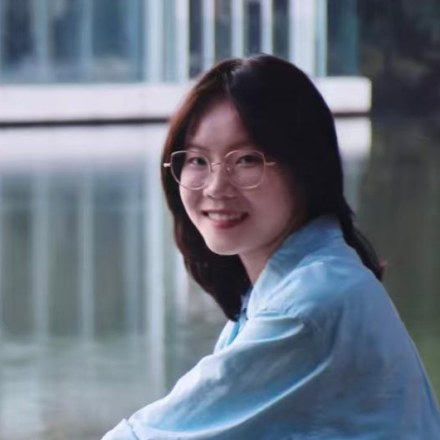
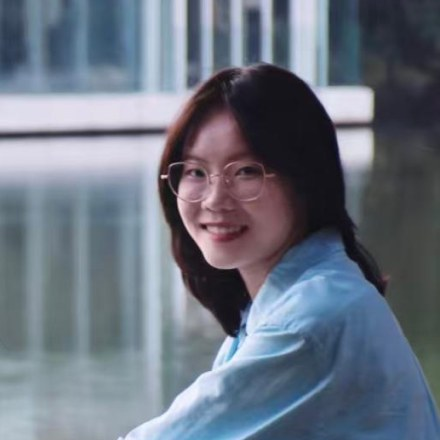
Team: correct names to 陈启凯 (Qikai Chen) & 杜斓琪; re-crop all photos face-centered (fixes 郭潇 off-center)

diff --git a/team.html b/team.html
@@ -17,7 +17,7 @@
 <link rel="preconnect" href="https://fonts.googleapis.com">
 <link href="https://fonts.googleapis.com/css2?family=Inter:wght@400;500;600;700;800&display=swap" rel="stylesheet">
 <script>try{document.documentElement.setAttribute("data-theme",localStorage.getItem("wl-theme")||"dark")}catch(e){}</script>
-<link rel="stylesheet" href="assets/css/site.css?v=20260621-polish35">
+<link rel="stylesheet" href="assets/css/site.css?v=20260621-polish36">
 </head>
 <body>
 
@@ -187,22 +187,22 @@
     <h2 class="section-title" style="margin-top:3rem" data-zh="主治医师">Attending Physicians</h2>
     <div class="team-grid">
       <div class="team-member">
-        <div class="team-member__avatar"><img src="images/team/liuyaoming.jpg?v=2" alt=""></div>
+        <div class="team-member__avatar"><img src="images/team/liuyaoming.jpg?v=3" alt=""></div>
         <div class="team-member__name" data-zh="刘耀明">Yaoming Liu</div>
         <div class="team-member__role" data-zh="主治医师">Attending Physician</div>
       </div>
       <div class="team-member">
-        <div class="team-member__avatar"><img src="images/team/lijiayong.jpg?v=2" alt=""></div>
+        <div class="team-member__avatar"><img src="images/team/lijiayong.jpg?v=3" alt=""></div>
         <div class="team-member__name" data-zh="李嘉永">Jiayong Li</div>
         <div class="team-member__role" data-zh="主治医师">Attending Physician</div>
       </div>
       <div class="team-member">
-        <div class="team-member__avatar"><img src="images/team/suyongyue.jpg?v=2" alt="Yongyue Su"></div>
+        <div class="team-member__avatar"><img src="images/team/suyongyue.jpg?v=3" alt="Yongyue Su"></div>
         <div class="team-member__name" data-zh="苏永悦">Yongyue Su</div>
         <div class="team-member__role" data-zh="主治医师">Attending Physician</div>
       </div>
       <div class="team-member">
-        <div class="team-member__avatar"><img src="images/team/liyuting.jpg?v=2" alt="Yuting Li"></div>
+        <div class="team-member__avatar"><img src="images/team/liyuting.jpg?v=3" alt="Yuting Li"></div>
         <div class="team-member__name" data-zh="黎宇婷">Yuting Li</div>
         <div class="team-member__role" data-zh="主治医师">Attending Physician</div>
       </div>
@@ -216,17 +216,17 @@
         <div class="team-member__role" data-zh="博士后研究员">Postdoctoral Researcher</div>
       </div>
       <div class="team-member">
-        <div class="team-member__avatar"><img src="images/team/xuanmeng.jpg?v=2" alt=""></div>
+        <div class="team-member__avatar"><img src="images/team/xuanmeng.jpg?v=3" alt=""></div>
         <div class="team-member__name" data-zh="玄猛">Meng Xuan</div>
         <div class="team-member__role" data-zh="博士后研究员">Postdoctoral Researcher</div>
       </div>
       <div class="team-member">
-        <div class="team-member__avatar"><img src="images/team/wangpeiyuan.jpg?v=2" alt=""></div>
+        <div class="team-member__avatar"><img src="images/team/wangpeiyuan.jpg?v=3" alt=""></div>
         <div class="team-member__name" data-zh="王培源">Peiyuan Wang</div>
         <div class="team-member__role" data-zh="博士后研究员">Postdoctoral Researcher</div>
       </div>
       <div class="team-member">
-        <div class="team-member__avatar"><img src="images/team/guoxiao.jpg?v=2" alt=""></div>
+        <div class="team-member__avatar"><img src="images/team/guoxiao.jpg?v=3" alt=""></div>
         <div class="team-member__name" data-zh="郭潇">Xiao Guo</div>
         <div class="team-member__role" data-zh="博士后研究员">Postdoctoral Researcher</div>
       </div>
@@ -245,22 +245,22 @@
         <div class="team-member__role" data-zh="博士研究生">PhD Student</div>
       </div>
       <div class="team-member">
-        <div class="team-member__avatar"><img src="images/team/cuijinli.jpg?v=2" alt=""></div>
+        <div class="team-member__avatar"><img src="images/team/cuijinli.jpg?v=3" alt=""></div>
         <div class="team-member__name" data-zh="崔金利">Jinli Cui</div>
         <div class="team-member__role" data-zh="博士研究生">PhD Student</div>
       </div>
       <div class="team-member">
-        <div class="team-member__avatar"><img src="images/team/liyunqian.jpg?v=2" alt=""></div>
+        <div class="team-member__avatar"><img src="images/team/liyunqian.jpg?v=3" alt=""></div>
         <div class="team-member__name" data-zh="李芸倩">Yunqian Li</div>
         <div class="team-member__role" data-zh="博士研究生">PhD Student</div>
       </div>
       <div class="team-member">
-        <div class="team-member__avatar"><img src="images/team/liuriqian.jpg?v=2" alt=""></div>
+        <div class="team-member__avatar"><img src="images/team/liuriqian.jpg?v=3" alt=""></div>
         <div class="team-member__name" data-zh="刘日乾">Riqian Liu</div>
         <div class="team-member__role" data-zh="博士研究生">PhD Student</div>
       </div>
       <div class="team-member">
-        <div class="team-member__avatar"><img src="images/team/jingtianzhen.jpg?v=2" alt=""></div>
+        <div class="team-member__avatar"><img src="images/team/jingtianzhen.jpg?v=3" alt=""></div>
         <div class="team-member__name" data-zh="敬天真">Tianzhen Jing</div>
         <div class="team-member__role" data-zh="博士研究生">PhD Student</div>
       </div>
@@ -269,18 +269,18 @@
     <h2 class="section-title" style="margin-top:2.5rem" data-zh="硕士研究生">Master's Students</h2>
     <div class="team-grid">
       <div class="team-member">
-        <div class="team-member__avatar"><img src="images/team/zhuziyu.jpg?v=2" alt=""></div>
+        <div class="team-member__avatar"><img src="images/team/zhuziyu.jpg?v=3" alt=""></div>
         <div class="team-member__name" data-zh="朱梓瑜">Ziyu Zhu</div>
         <div class="team-member__role" data-zh="硕士研究生">Master's Student</div>
       </div>
       <div class="team-member">
-        <div class="team-member__avatar"><img src="images/team/liuyunyi.jpg?v=2" alt=""></div>
+        <div class="team-member__avatar"><img src="images/team/liuyunyi.jpg?v=3" alt=""></div>
         <div class="team-member__name" data-zh="刘昀祎">Yunyi Liu</div>
         <div class="team-member__role" data-zh="硕士研究生">Master's Student</div>
       </div>
       <div class="team-member">
-        <div class="team-member__avatar"><img src="images/team/dulanqi.jpg?v=2" alt=""></div>
-        <div class="team-member__name" data-zh="杜澜琪">Lanqi Du</div>
+        <div class="team-member__avatar"><img src="images/team/dulanqi.jpg?v=3" alt=""></div>
+        <div class="team-member__name" data-zh="杜斓琪">Lanqi Du</div>
         <div class="team-member__role" data-zh="硕士研究生">Master's Student</div>
       </div>
       <div class="team-member">
@@ -289,38 +289,38 @@
         <div class="team-member__role" data-zh="硕士研究生">Master's Student</div>
       </div>
       <div class="team-member">
-        <div class="team-member__avatar"><img src="images/team/heyaoyang.jpg?v=2" alt=""></div>
+        <div class="team-member__avatar"><img src="images/team/heyaoyang.jpg?v=3" alt=""></div>
         <div class="team-member__name" data-zh="何耀扬">Yaoyang He</div>
         <div class="team-member__role" data-zh="硕士研究生">Master's Student</div>
       </div>
       <div class="team-member">
-        <div class="team-member__avatar"><img src="images/team/linxingtong.jpg?v=2" alt=""></div>
+        <div class="team-member__avatar"><img src="images/team/linxingtong.jpg?v=3" alt=""></div>
         <div class="team-member__name" data-zh="林星彤">Xingtong Lin</div>
         <div class="team-member__role" data-zh="硕士研究生">Master's Student</div>
       </div>
       <div class="team-member">
-        <div class="team-member__avatar"><img src="images/team/zhanghaotian.jpg?v=2" alt=""></div>
+        <div class="team-member__avatar"><img src="images/team/zhanghaotian.jpg?v=3" alt=""></div>
         <div class="team-member__name" data-zh="张浩天">Haotian Zhang</div>
         <div class="team-member__role" data-zh="硕士研究生">Master's Student</div>
       </div>
       <div class="team-member">
-        <div class="team-member__avatar"><img src="images/team/tanjunwei.jpg?v=2" alt=""></div>
+        <div class="team-member__avatar"><img src="images/team/tanjunwei.jpg?v=3" alt=""></div>
         <div class="team-member__name" data-zh="谭俊炜">Junwei Tan</div>
         <div class="team-member__role" data-zh="硕士研究生">Master's Student</div>
       </div>
       <div class="team-member">
-        <div class="team-member__avatar"><img src="images/team/zengsixi.jpg?v=2" alt=""></div>
+        <div class="team-member__avatar"><img src="images/team/zengsixi.jpg?v=3" alt=""></div>
         <div class="team-member__name" data-zh="曾思熹">Sixi Zeng</div>
         <div class="team-member__role" data-zh="硕士研究生">Master's Student</div>
       </div>
       <div class="team-member">
-        <div class="team-member__avatar"><img src="images/team/dengshirui.jpg?v=2" alt=""></div>
+        <div class="team-member__avatar"><img src="images/team/dengshirui.jpg?v=3" alt=""></div>
         <div class="team-member__name" data-zh="邓诗睿">Shirui Deng</div>
         <div class="team-member__role" data-zh="硕士研究生">Master's Student</div>
       </div>
       <div class="team-member">
-        <div class="team-member__avatar"><img src="images/team/chenyukai.jpg?v=2" alt="Yukai Chen"></div>
-        <div class="team-member__name" data-zh="陈宇凯">Yukai Chen</div>
+        <div class="team-member__avatar"><img src="images/team/chenqikai.jpg?v=3" alt="Qikai Chen"></div>
+        <div class="team-member__name" data-zh="陈启凯">Qikai Chen</div>
         <div class="team-member__role" data-zh="硕士研究生">Master's Student</div>
       </div>
     </div>
@@ -476,6 +476,6 @@
   </div>
 </footer>
 
-<script src="assets/js/site.js?v=20260621-polish35"></script>
+<script src="assets/js/site.js?v=20260621-polish36"></script>
 </body>
 </html>

diff --git a/cohorts.html b/cohorts.html
@@ -17,7 +17,7 @@
 <link rel="preconnect" href="https://fonts.googleapis.com">
 <link href="https://fonts.googleapis.com/css2?family=Inter:wght@400;500;600;700;800&display=swap" rel="stylesheet">
 <script>try{document.documentElement.setAttribute("data-theme",localStorage.getItem("wl-theme")||"dark")}catch(e){}</script>
-<link rel="stylesheet" href="assets/css/site.css?v=20260621-polish35">
+<link rel="stylesheet" href="assets/css/site.css?v=20260621-polish36">
 <style>
 /* Cohort page extras */
 .cohort-overview{display:grid;grid-template-columns:repeat(3,minmax(0,1fr));gap:18px;margin-bottom:2.5rem}
@@ -425,6 +425,6 @@
   }
 })();
 </script>
-<script src="assets/js/site.js?v=20260621-polish35"></script>
+<script src="assets/js/site.js?v=20260621-polish36"></script>
 </body>
 </html>

diff --git a/index.html b/index.html
@@ -17,7 +17,7 @@
 <link rel="preconnect" href="https://fonts.googleapis.com">
 <link href="https://fonts.googleapis.com/css2?family=Inter:wght@400;500;600;700;800&display=swap" rel="stylesheet">
 <script>try{document.documentElement.setAttribute("data-theme",localStorage.getItem("wl-theme")||"dark")}catch(e){}</script>
-<link rel="stylesheet" href="assets/css/site.css?v=20260621-polish35">
+<link rel="stylesheet" href="assets/css/site.css?v=20260621-polish36">
 <script type="application/ld+json">
 {
   "@context": "https://schema.org",
@@ -411,4 +411,4 @@
   </div>
 </footer>
 
-<script src="assets/js/site.js?v=20260621-polish35"></script>
+<script src="assets/js/site.js?v=20260621-polish36"></script>

diff --git a/contact.html b/contact.html
@@ -17,7 +17,7 @@
 <link rel="preconnect" href="https://fonts.googleapis.com">
 <link href="https://fonts.googleapis.com/css2?family=Inter:wght@400;500;600;700;800&display=swap" rel="stylesheet">
 <script>try{document.documentElement.setAttribute("data-theme",localStorage.getItem("wl-theme")||"dark")}catch(e){}</script>
-<link rel="stylesheet" href="assets/css/site.css?v=20260621-polish35">
+<link rel="stylesheet" href="assets/css/site.css?v=20260621-polish36">
 </head>
 <body>
 
@@ -155,6 +155,6 @@
   </div>
 </footer>
 
-<script src="assets/js/site.js?v=20260621-polish35"></script>
+<script src="assets/js/site.js?v=20260621-polish36"></script>
 </body>
 </html>

diff --git a/data_access.html b/data_access.html
@@ -17,7 +17,7 @@
 <link rel="preconnect" href="https://fonts.googleapis.com">
 <link href="https://fonts.googleapis.com/css2?family=Inter:wght@400;500;600;700;800&display=swap" rel="stylesheet">
 <script>try{document.documentElement.setAttribute("data-theme",localStorage.getItem("wl-theme")||"dark")}catch(e){}</script>
-<link rel="stylesheet" href="assets/css/site.css?v=20260621-polish35">
+<link rel="stylesheet" href="assets/css/site.css?v=20260621-polish36">
 </head>
 <body>
 
@@ -204,6 +204,6 @@
   </div>
 </footer>
 
-<script src="assets/js/site.js?v=20260621-polish35"></script>
+<script src="assets/js/site.js?v=20260621-polish36"></script>
 </body>
 </html>

diff --git a/publications.html b/publications.html
@@ -17,7 +17,7 @@
 <link rel="preconnect" href="https://fonts.googleapis.com">
 <link href="https://fonts.googleapis.com/css2?family=Inter:wght@400;500;600;700;800&display=swap" rel="stylesheet">
 <script>try{document.documentElement.setAttribute("data-theme",localStorage.getItem("wl-theme")||"dark")}catch(e){}</script>
-<link rel="stylesheet" href="assets/css/site.css?v=20260621-polish35">
+<link rel="stylesheet" href="assets/css/site.css?v=20260621-polish36">
 </head>
 <body>
 
@@ -836,6 +836,6 @@
   </div>
 </footer>
 
-<script src="assets/js/site.js?v=20260621-polish35"></script>
+<script src="assets/js/site.js?v=20260621-polish36"></script>
 </body>
 </html>
